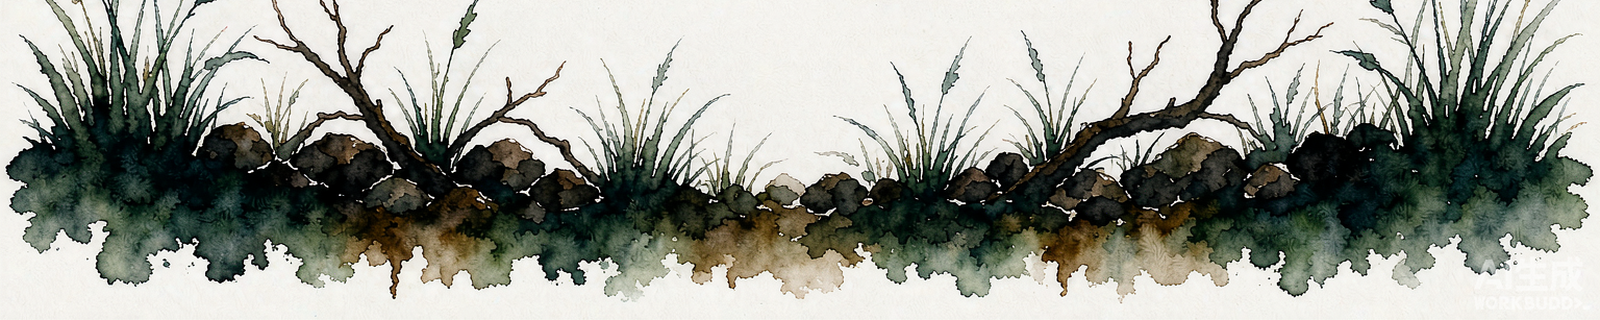
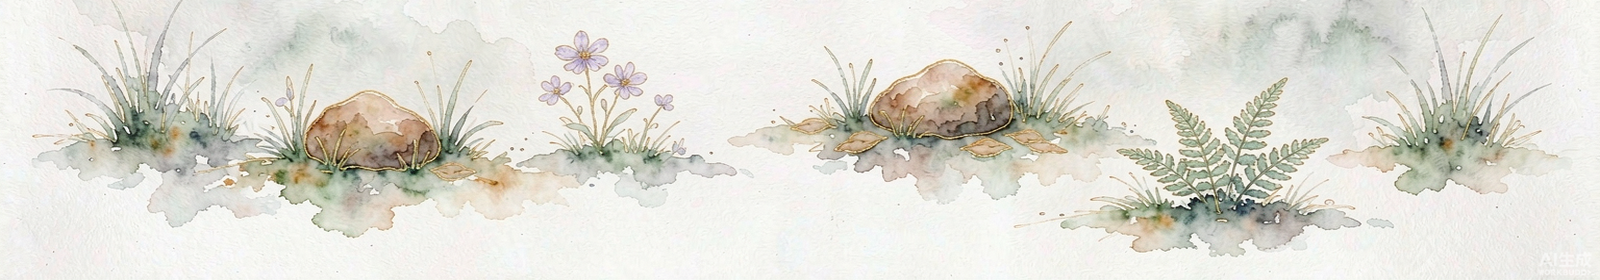
主界面地图：多层景深多样性+抬升放大+近景植被混合

diff --git a/Assets/WanXiang/Modules/UI/HomeMapJourney.cs b/Assets/WanXiang/Modules/UI/HomeMapJourney.cs
@@ -59,12 +59,17 @@ namespace WanXiang.Modules.UI
         [SerializeField] private float _edgeFadeX  = 0.10f;  // 左右边缘渐隐比例
         [SerializeField] private Sprite[] _seasonArt;        // 春/夏/秋/冬 四张水彩底图（按幕切，空则退回默认）
         [SerializeField] private float _nodeSize   = 104f;   // 节气节点基准尺寸（px，越大越醒目）
-        [SerializeField] private float _mapScale   = 1.16f;  // 整张地图放大（铺满屏幕）
+        [SerializeField] private float _mapScale   = 1.26f;  // 整张地图放大（铺满屏幕）
+        [SerializeField] private float _raiseY     = 55f;    // 整张地图上移（露出更多天/远山）
         private Material _perspMat;   // 透视材质（中景底图/地面/小路）
         private Material _lumaMat;    // 亮度抠白材质（远景山峰层 / 近景前景层）
+        private Material _lumaMatMist; // 极远雾山专用（阈值更宽：雾山本来就极淡）
         private Image _farPeaks;      // Img_FarPeaks 远景山峰层
         private Vector2 _peaksBase;   // 远景山峰层基准位
+        private Image _farMist;       // Img_FarHaze 极远雾山层（最远、最淡、视差最慢）
+        private Vector2 _mistBase;    // 极远雾山层基准位
         private Vector3 _mapScale0 = Vector3.one;
+        private Vector3 _pos0;        // 地图根节点原始位置（上移叠加用）
         private bool _scaleCaptured;
         // 当前节点"呼吸光晕"（prefab 节点 Img_NowGlow，按名字取，不做运行时构建）
         [SerializeField] private float _glowSize = 300f;      // 光晕直径（px）
@@ -115,7 +120,7 @@ namespace WanXiang.Modules.UI
 
         private void OnEnable()
         {
-            if (!_scaleCaptured) { _mapScale0 = transform.localScale; _scaleCaptured = true; }
+            if (!_scaleCaptured) { _mapScale0 = transform.localScale; _pos0 = transform.localPosition; _scaleCaptured = true; }
             if (_far != null) _farBase = _far.rectTransform.anchoredPosition;
             if (_near != null) _nearBase = _near.rectTransform.anchoredPosition;
             SetupPerspectiveMaterial();
@@ -125,10 +130,11 @@ namespace WanXiang.Modules.UI
             Refresh();
         }
 
-        /// <summary>把整张地图放大到铺满屏幕（prefab 原始缩放 × _mapScale；节点会跟着一起放大）。</summary>
+        /// <summary>把整张地图放大到铺满屏幕并整体上移（prefab 原始缩放 × _mapScale；节点会跟着一起放大）。</summary>
         public void ApplyMapScale()
         {
             transform.localScale = _mapScale0 * Mathf.Max(0.1f, _mapScale);
+            transform.localPosition = _pos0 + new Vector3(0f, _raiseY, 0f);
         }
 
         // ------------------------------------------------------------------ 斜俯视：背景地面透视
@@ -173,6 +179,8 @@ namespace WanXiang.Modules.UI
             _lumaMat.SetFloat("_KeyWhite", 0.86f);
             _lumaMat.SetFloat("_KeyBlack", 0.52f);
             _lumaMat.SetFloat("_Opacity", 1f);
+            // 上下边缘渐隐：前景"芦苇墙"的顶边化开，不会一条硬线切在画面上
+            _lumaMat.SetFloat("_EdgeFadeY", 0.16f);
 
             if (_terrain != null && _terrain.transform.parent != null)
             {
@@ -180,8 +188,35 @@ namespace WanXiang.Modules.UI
                 _farPeaks = pk != null ? pk.GetComponent<Image>() : null;
                 if (_farPeaks != null) _peaksBase = _farPeaks.rectTransform.anchoredPosition;
             }
-            if (_farPeaks != null) _farPeaks.material = _lumaMat;
+            if (_farPeaks != null)
+            {
+                _farPeaks.material = _lumaMat;
+                // 大气透视：远峰整体压淡偏蓝（离得远，颜色被空气"洗淡"）
+                _farPeaks.color = new Color(0.88f, 0.91f, 0.95f, 1f);
+            }
             if (_near != null) _near.material = _lumaMat;
+
+            // 极远雾山层：阈值放宽（雾山本来就极淡，用普通山峰阈值会整个被抠没）
+            if (_terrain != null && _terrain.transform.parent != null)
+            {
+                var mi = _terrain.transform.parent.Find("Img_FarHaze");
+                _farMist = mi != null ? mi.GetComponent<Image>() : null;
+                if (_farMist != null)
+                {
+                    _mistBase = _farMist.rectTransform.anchoredPosition;
+                    var shM = Resources.Load<Shader>("Shaders/UILumaKey");
+                    if (shM == null) shM = Shader.Find("WanXiang/UI/LumaKey");
+                    if (shM != null)
+                    {
+                        _lumaMatMist = new Material(shM);
+                        _lumaMatMist.hideFlags = HideFlags.HideAndDontSave;
+                        _lumaMatMist.SetFloat("_KeyWhite", 0.97f);
+                        _lumaMatMist.SetFloat("_KeyBlack", 0.86f);
+                        _lumaMatMist.SetFloat("_Opacity", 1f);
+                        _farMist.material = _lumaMatMist;
+                    }
+                }
+            }
         }
 
         /// <summary>取终幕「到达之光」两个节点（prefab Img_FinaleGlow / Img_FinaleBeam，与门同在 Map_Par 下）。</summary>
@@ -457,6 +492,11 @@ namespace WanXiang.Modules.UI
                 _farPeaks.rectTransform.anchoredPosition = _peaksBase +
                     new Vector2(_hoverSmooth.x, _hoverSmooth.y * 0.5f) * (_shiftPx * _farParallax * 1.15f)
                     + drift * (_farParallax * 1.15f);
+            // 极远雾山层：比远峰更慢（最远），四层错动 = 真正的大气纵深
+            if (_farMist != null)
+                _farMist.rectTransform.anchoredPosition = _mistBase +
+                    new Vector2(_hoverSmooth.x, _hoverSmooth.y * 0.5f) * (_shiftPx * _farParallax * 0.75f)
+                    + drift * (_farParallax * 0.75f);
             if (_near != null)
                 _near.rectTransform.anchoredPosition = _nearBase +
                     new Vector2(_hoverSmooth.x, _hoverSmooth.y * 0.5f) * (_shiftPx * _nearParallax)

diff --git a/Assets/WanXiang/Modules/UI/HomeScene3D.cs b/Assets/WanXiang/Modules/UI/HomeScene3D.cs
@@ -214,6 +214,7 @@ namespace WanXiang.Modules.UI
             public int Birds; public bool BirdFlock;
             public int Butterflies;
             public string Ground; public int GroundNum; public float GroundScale;
+            public string Ground2;   // 第二种植被（交替混排，免得一片全是同一个图）
         }
 
         private static Eco EcoForAct(int act)
@@ -225,16 +226,18 @@ namespace WanXiang.Modules.UI
                 //   用户："你这个云怎么还变大了，第五幕的太大了" —— 长夏原本 0.72 最大是主因。
                 //   现在**长夏不再最大**，各幕只靠"数量/透明度"区分云的季节形态：
                 //     春·淡云疏 / 夏·积云厚白 / 秋·高云疏淡 / 冬·阴云灰密 / 长夏·低云压顶
+                // ⚠ 2026-10-13 用户"近景都一个样"：植被两两混排（Ground+Ground2 交替）+ 数量/尺寸调小，
+                //   别再一整排 13 丛同一个图顶到半屏。
                 case 1: return new Eco { Clouds = 10, CloudScale = 0.26f, CloudAlpha = 0.62f, Birds = 14, BirdFlock = false, Butterflies = 10,
-                                         Ground = "home_flower_1", GroundNum = 12, GroundScale = 0.95f };
+                                         Ground = "home_flower_1", Ground2 = "home_grass", GroundNum = 8, GroundScale = 0.82f };
                 case 2: return new Eco { Clouds = 12, CloudScale = 0.30f, CloudAlpha = 0.86f, Birds = 10, BirdFlock = false, Butterflies = 8,
-                                         Ground = "home_flower_2", GroundNum = 13, GroundScale = 1.00f };
+                                         Ground = "home_flower_2", Ground2 = "home_flower_1", GroundNum = 8, GroundScale = 0.85f };
                 case 3: return new Eco { Clouds = 7,  CloudScale = 0.22f, CloudAlpha = 0.52f, Birds = 16, BirdFlock = true, Butterflies = 0,
-                                         Ground = "home_reeds", GroundNum = 13, GroundScale = 1.05f };
+                                         Ground = "home_reeds", Ground2 = "home_grass", GroundNum = 8, GroundScale = 0.78f };
                 case 4: return new Eco { Clouds = 14, CloudScale = 0.28f, CloudAlpha = 0.90f, Birds = 5, BirdFlock = false, Butterflies = 0,
-                                         Ground = "home_grass", GroundNum = 12, GroundScale = 0.95f };
+                                         Ground = "home_grass", Ground2 = "home_flower_2", GroundNum = 8, GroundScale = 0.82f };
                 default: return new Eco { Clouds = 11, CloudScale = 0.26f, CloudAlpha = 0.80f, Birds = 8, BirdFlock = false, Butterflies = 0,
-                                          Ground = "home_wheat", GroundNum = 14, GroundScale = 1.05f };
+                                          Ground = "home_wheat", Ground2 = "home_reeds", GroundNum = 9, GroundScale = 0.82f };
             }
         }
 
@@ -355,13 +358,15 @@ namespace WanXiang.Modules.UI
         private void BuildGround(Eco eco)
         {
             DestroyNodes<Swayer>(_swayers, RToS);
-            var sp = Resources.Load<Sprite>("UI/Home/" + eco.Ground);
+            var sp  = Resources.Load<Sprite>("UI/Home/" + eco.Ground);
+            var sp2 = string.IsNullOrEmpty(eco.Ground2) ? null : Resources.Load<Sprite>("UI/Home/" + eco.Ground2);
             if (sp == null) { Debug.LogWarning("[Home] 地面植被缺图 " + eco.Ground); return; }
 
             for (int i = 0; i < eco.GroundNum; i++)
             {
                 var img = MakeImage(_natureRoot, "Ground" + i, i);
-                img.sprite = sp;
+                // 两两混排：偶数丛用主植被、奇数丛用第二植被（缺图就退回主植被）
+                img.sprite = (i % 2 == 1 && sp2 != null) ? sp2 : sp;
                 SetSizeBySprite(img, eco.GroundScale * _globalScale * Random.Range(0.85f, 1.35f));
                 float hh = img.rectTransform.sizeDelta.y;
                 float x = -HalfW + (i + 0.5f) * (W / eco.GroundNum) + Random.Range(-30f, 30f);
@@ -370,7 +375,7 @@ namespace WanXiang.Modules.UI
                 _swayers.Add(new Swayer { T = img.rectTransform,
                                           Amp = Random.Range(2.4f, 6.0f), Freq = Random.Range(0.65f, 1.25f), Phase = Random.Range(0f, 6.28f) });
             }
-            Debug.Log("[Home] 地面植被 " + _swayers.Count + " 丛（" + eco.Ground + "）");
+            Debug.Log("[Home] 地面植被 " + _swayers.Count + " 丛（" + eco.Ground + " + " + (sp2 != null ? eco.Ground2 : "-") + "）");
         }
 
         // ---------------- 水（常驻） ----------------

diff --git a/Assets/WanXiang/Editor/UITool/UIBuildHomeMap.cs b/Assets/WanXiang/Editor/UITool/UIBuildHomeMap.cs
@@ -159,6 +159,21 @@ namespace WanXiang.EditorTools
             terrainImg.sprite = LoadSprite("journey_pano.png");
             terrainImg.raycastTarget = true;
 
+            // 极远雾山层（最远最淡；LumaKey 阈值在 HomeMapJourney.SetupLumaLayers 下发）
+            var farMist = NewUI("Img_FarHaze", par.transform, StripW, 400f);
+            var farMistImg = farMist.AddComponent<Image>();
+            farMistImg.sprite = AssetDatabase.LoadAssetAtPath<Sprite>("Assets/ArtRes/UI/HomeMapHD/journey_farmist.png");
+            farMistImg.raycastTarget = false;
+            farMistImg.color = new Color(1f, 1f, 1f, 0.85f);
+            ((RectTransform)farMist.transform).anchoredPosition = new Vector2(0f, 150f);
+
+            // 远景山峰层（青灰；LumaKey 抠白 + 大气透视淡蓝染色）
+            var farPeaks = NewUI("Img_FarPeaks", par.transform, StripW, 400f);
+            var farPeaksImg = farPeaks.AddComponent<Image>();
+            farPeaksImg.sprite = AssetDatabase.LoadAssetAtPath<Sprite>("Assets/ArtRes/UI/HomeMapHD/journey_farpeaks.png");
+            farPeaksImg.raycastTarget = false;
+            ((RectTransform)farPeaks.transform).anchoredPosition = new Vector2(0f, 120f);
+
             // 白虚线小路（程序化，位置公式与节点一致；盖在画卷上）
             var pathGo = NewUI("Img_Path", par.transform, StripW, StripH);
             var pathImg = pathGo.AddComponent<Image>();
@@ -208,12 +223,12 @@ namespace WanXiang.EditorTools
                 ((RectTransform)lab.transform).anchoredPosition = new Vector2(x, 115f);
             }
 
-            // 近景墨丘（AI 出图抠透明；条带底部，视差最快 —— 伪3D 前层）
-            var near = NewUI("Img_Near", par.transform, StripW, 150f);
+            // 近景前景层（多变水彩：芦苇/枯石野花/茅草竹坡；LumaKey 抠白；条带底部，视差最快）
+            var near = NewUI("Img_Near", par.transform, StripW, 400f);
             var nearImg = near.AddComponent<Image>();
-            nearImg.sprite = LoadSprite("journey_near.png");
+            nearImg.sprite = AssetDatabase.LoadAssetAtPath<Sprite>("Assets/ArtRes/UI/HomeMapHD/journey_foreground.png");
             nearImg.raycastTarget = false;
-            ((RectTransform)near.transform).anchoredPosition = new Vector2(0f, -80f);
+            ((RectTransform)near.transform).anchoredPosition = new Vector2(0f, -235f);
 
             // 终幕「归墟之门」到达之光（光柱 + 光晕；仅 act≥5 由 HomeMapJourney 一起点亮）
             var finBeam = NewUI("Img_FinaleBeam", par.transform, 190f, 430f);
